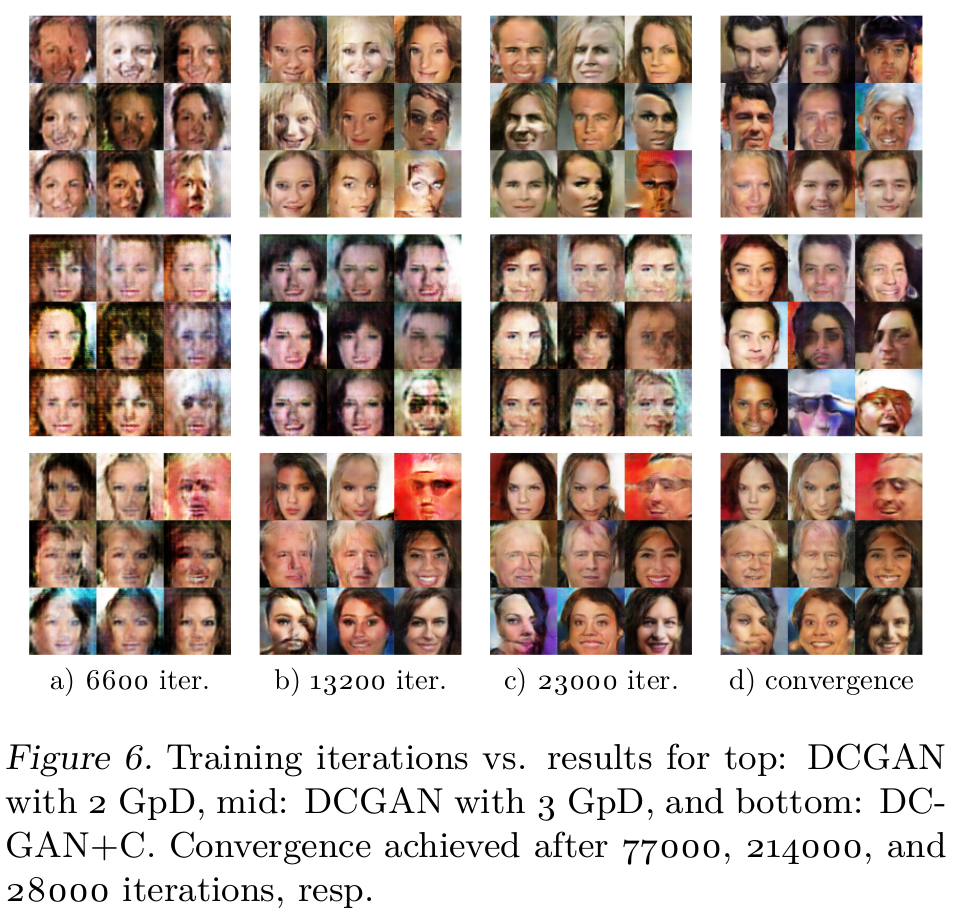
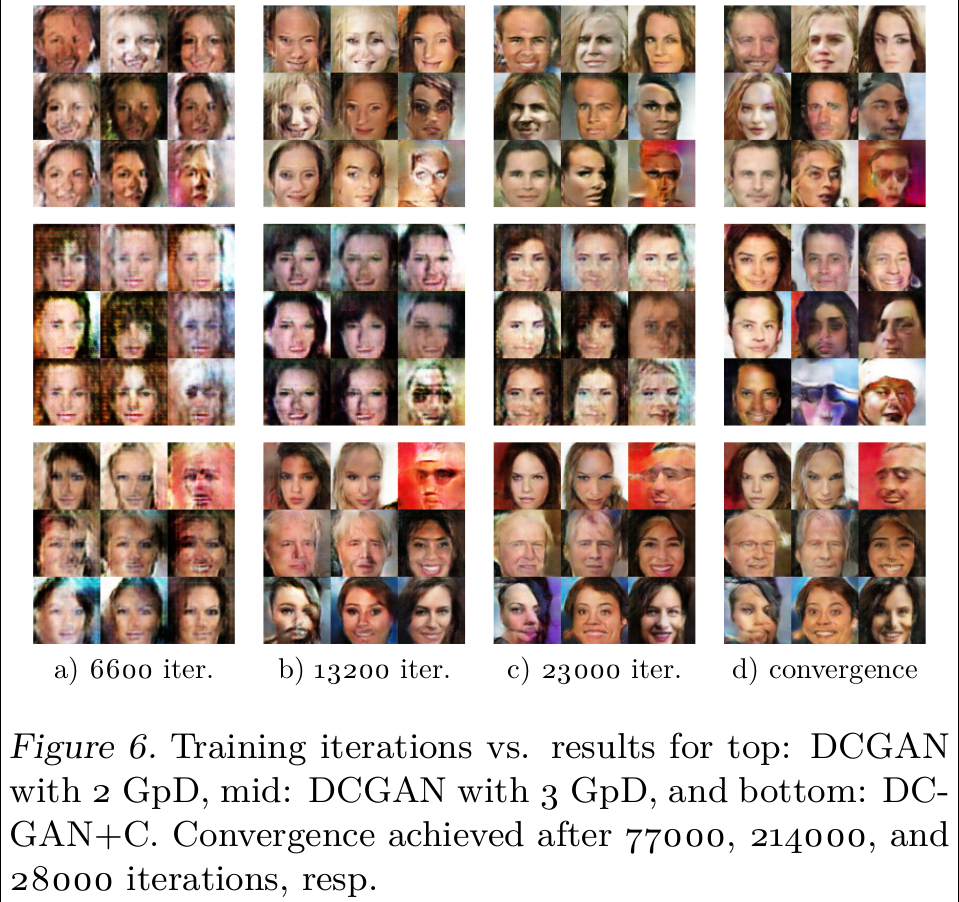
udpated README. Fixed wrong convergence comparison image.

diff --git a/README.md b/README.md
@@ -1,5 +1,11 @@
 # ABC-GAN
 
+The work represented in this repository is the result of a 14 week semesterthesis on photo-realistic image generation using generative adversarial networks at ETH zurich. 
+
+## Additional Experiments
+
+There is a second branch called `loose_encoder` in which you will find another experiment conducted during the thesis. Unfortunately we didn't had enough time to make an in-depth analysis of the results. The `loose encoder` can be added to any other experiment with a simple flag and in specific datasets such as CelebA results in astonishing improvement of generated image quality. To the best of our knowledge there is no GAN out there resulting in similar realistic images on celebA with a 64 by 64 output resolution. (Check the other branch for some samples)
+
 ## Prerequisites
 
 The code has been built and tested using the following packages (and versions)
@@ -100,11 +106,11 @@ The controller gives you the following benefits:
 
 **Controller architecture**:
 
-*Note: The Realism is calculated using the two losses of the discriminator (loss for real and for fake images).*
+*Note: The controller input is calculated using the two losses of the discriminator (loss for real and for fake images).*
 
 ![controller](report/controller.png)
 
-The controller tries to keep the avg. realism always at a reference point. The output of the controller is a probability of training either the discriminator or the generator.
+The controller tries to keep the avg. value always at a reference point. The output of the controller is a probability of training either the discriminator or the generator.
 
 ### Controllability
 
@@ -168,7 +174,7 @@ Combination of the Adaptive Blur and Controller GAN.
 
 We conducted different experiments using various datasets such as LSUN, CIFAR10 and CelebA. Some of the resulting images have been downscaled by a factor of two in order to reduce noise. *(Since on some screens and also printed the noise looks very annoying.)*
 
-***Note:*** *In some samples, you will see a green bar at the top. The bar is indicating the probability of the image coming from the real dataset rather than from the generator. We used the discriminator losses and a softmax to evaluate this probability.*
+***Note:*** *In some samples, you will see a green bar at the top. The bar is indicating the probability of the image coming from the real dataset rather than from the generator. We used the discriminator losses and a softmax to evaluate this probability and use it as an input for the controller.*
 
 ### LSUN bedrooms dataset
 
@@ -192,7 +198,7 @@ We seem to reach the limit of DCGAN with this experiment. The same experiment wi
 
 ## Publications
 
-*TODO*
+* ![ICML2017 Workshop on Implicit Generative Models](https://drive.google.com/open?id=0B3wEP_lEl0laVTdGcHE2VnRiMlE)
 
 ## Acknowledgement
 
